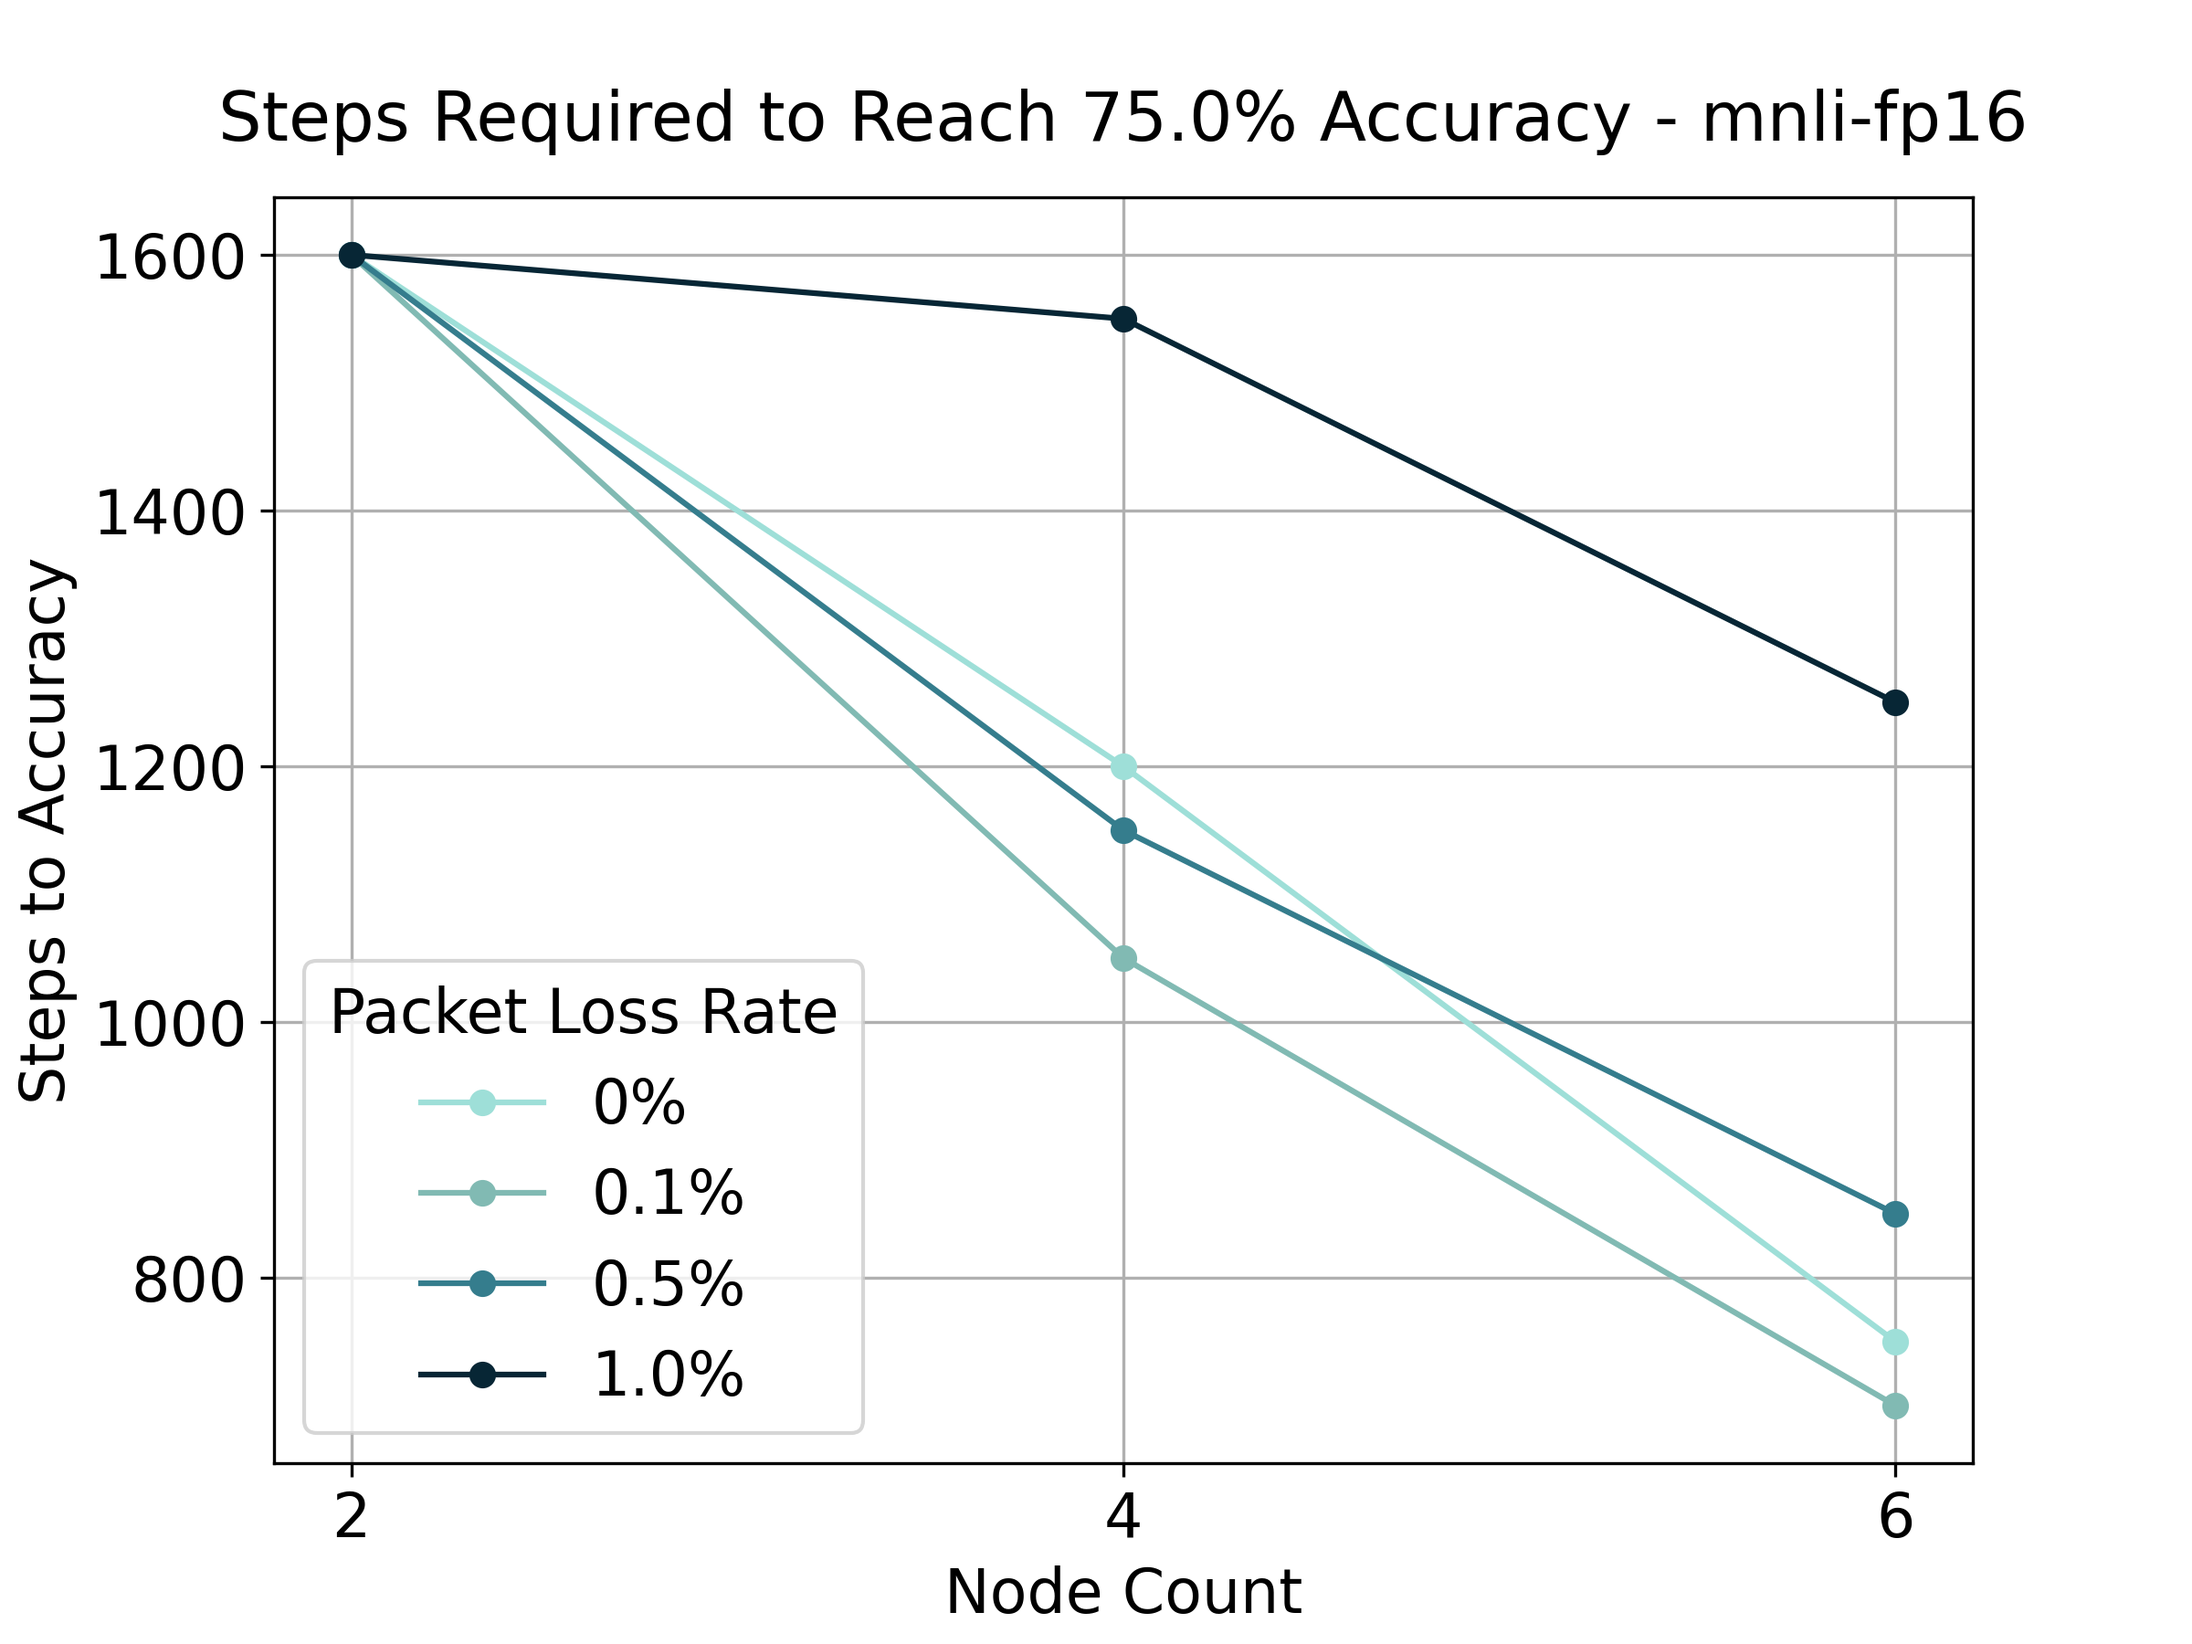
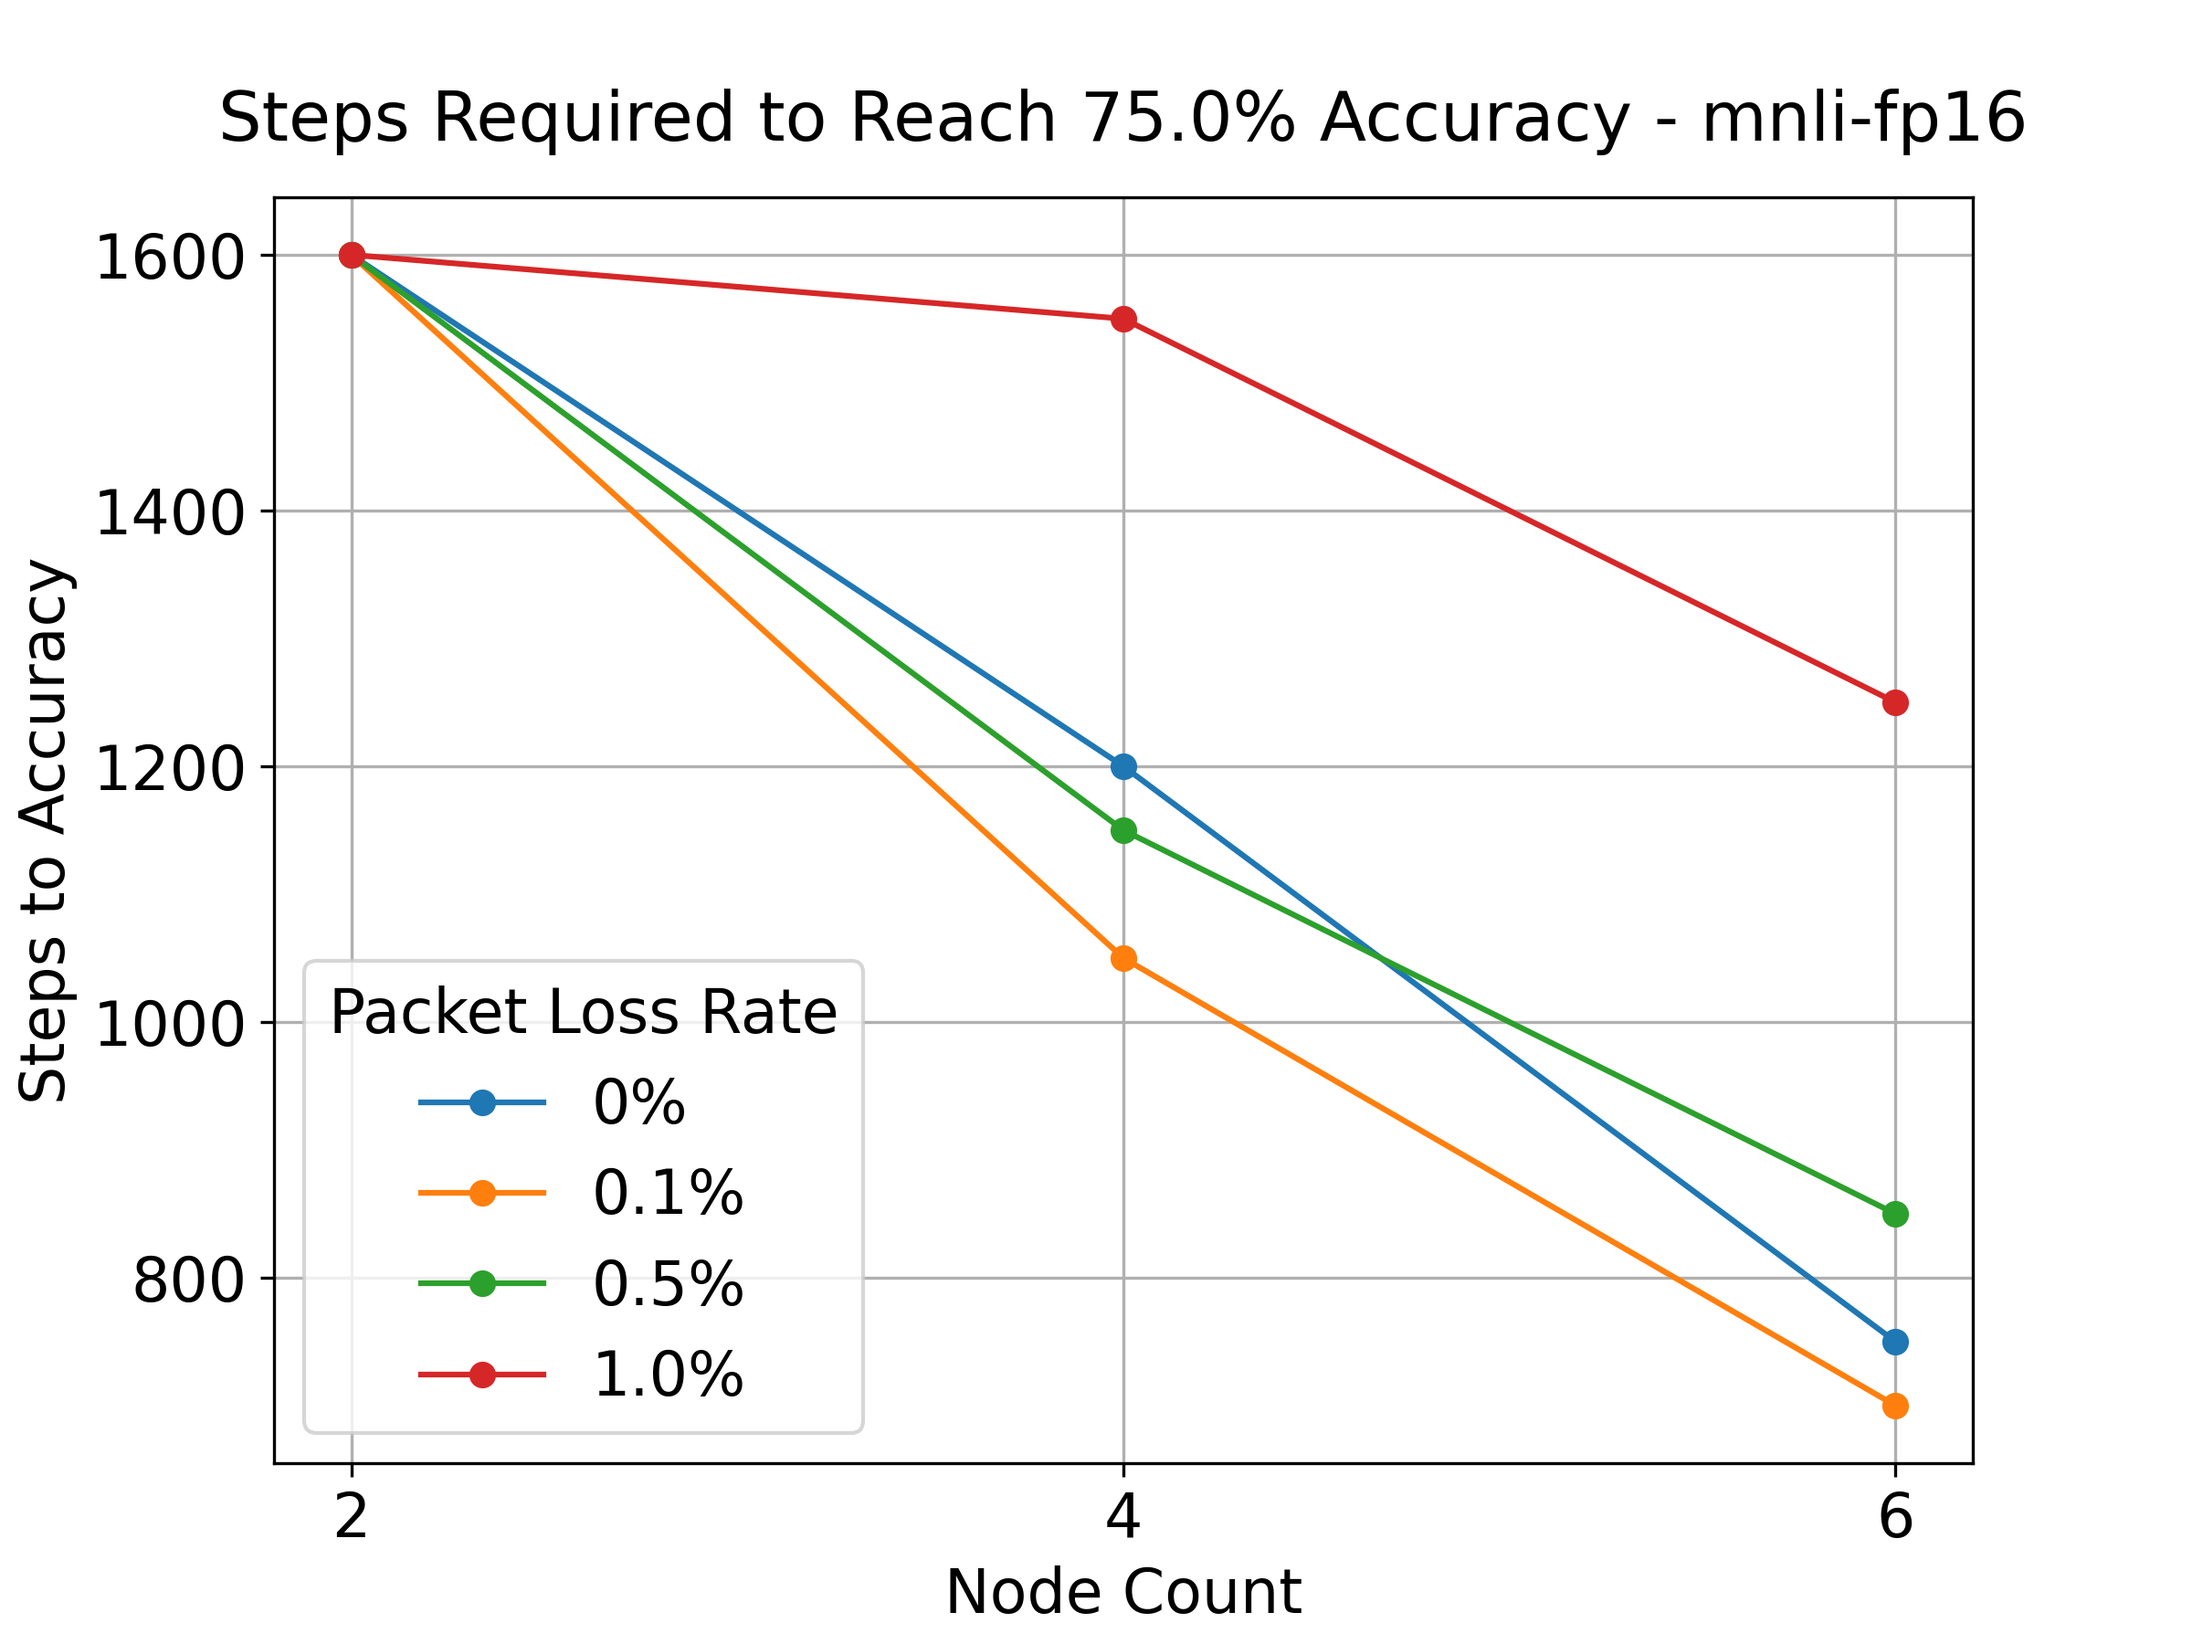
bring back good colors

diff --git a/plot_and_save_results.py b/plot_and_save_results.py
@@ -3,8 +3,7 @@ import matplotlib.pyplot as plt
 from matplotlib import colormaps
 import os
 
-colors = ['#9edfd8','#81bab3','#357d8d','#072635', 'black']
-# colors = ['#1f77b4', '#ff7f0e', '#2ca02c', '#d62728', '#9467bd', '#8c564b', '#e377c2', '#7f7f7f', '#bcbd22', '#17becf']
+colors = ['#1f77b4', '#ff7f0e', '#2ca02c', '#d62728', '#9467bd', '#8c564b', '#e377c2', '#7f7f7f', '#bcbd22', '#17becf']
 
 def plot_steps_vs_nodes(data, dataset_name, save_path, accuracy_threshold=0.75):
     # plt.rcParams.update({'font.size': 16})  # Set base font size
